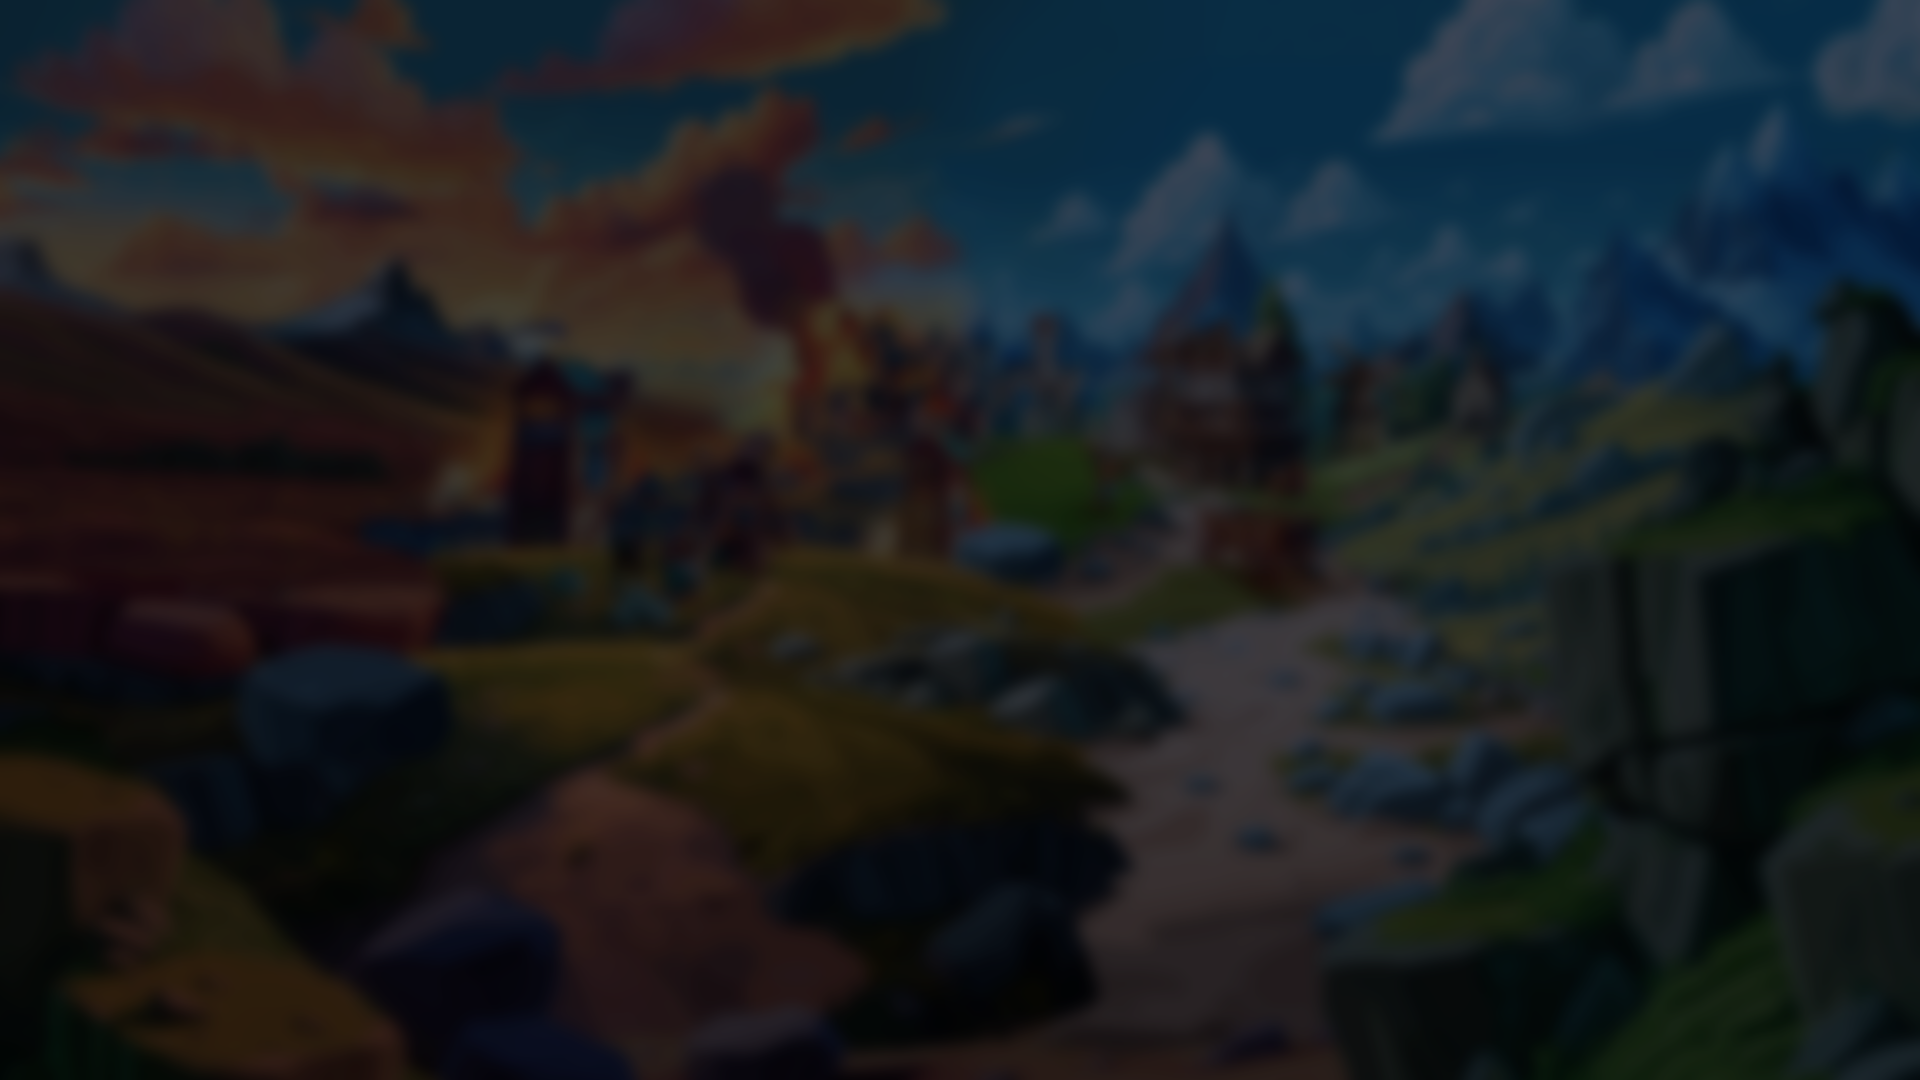
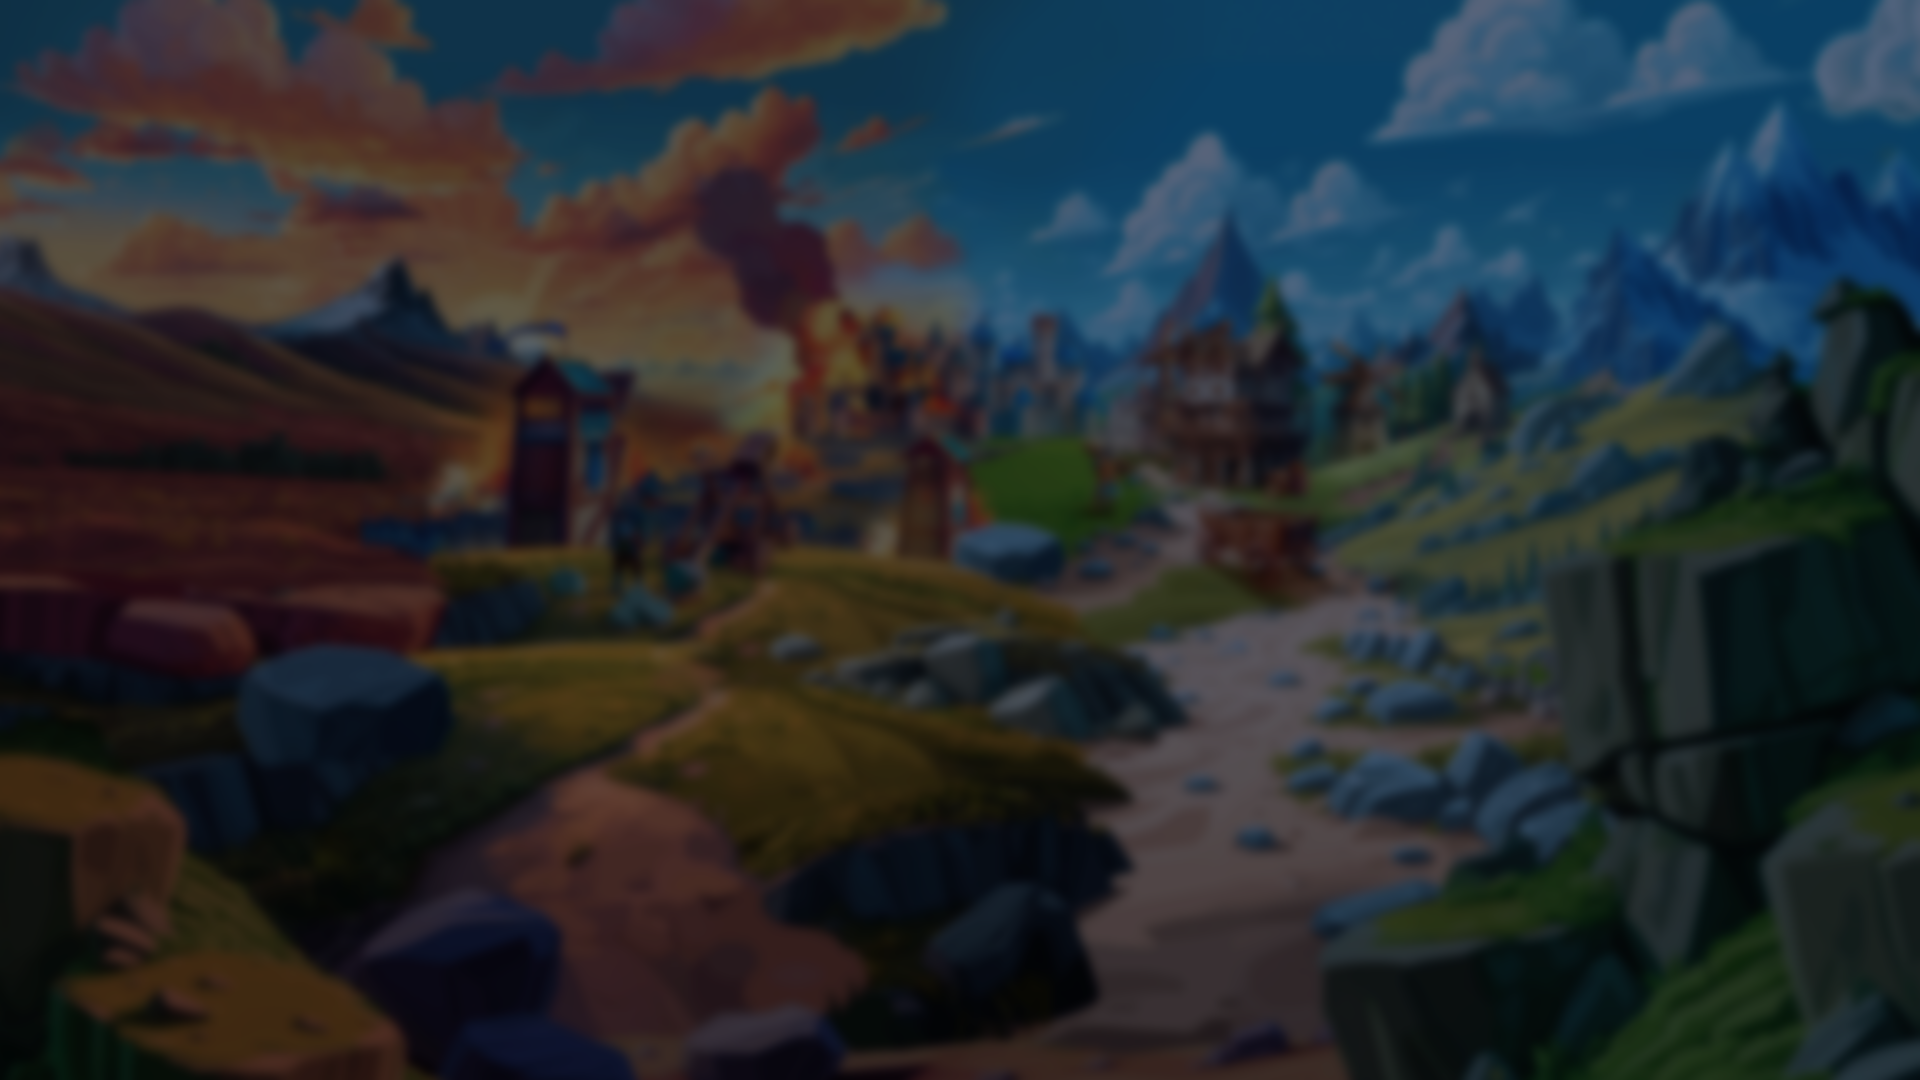
New design changes

diff --git a/styles.css b/styles.css
@@ -26,6 +26,9 @@ textarea {
     body {
         margin: 0 !important;
         background-attachment: scroll;
+        height: auto;
+        min-height: 100vh;
+        overflow: auto;
     }
 }
 
@@ -256,7 +259,9 @@ textarea {
 }
 
 .container {
-    background-color: rgba(32, 23, 17, 0.22);
+    background-color: rgba(32, 23, 17, 0.55);
+    backdrop-filter: blur(8px);
+    -webkit-backdrop-filter: blur(8px);
     display: flex;
     flex-direction: column;
     height: 100vh;
@@ -278,14 +283,13 @@ textarea {
     display: flex;
     flex-direction: column;
     overflow-x: hidden;
-    overflow-y: scroll;
+    overflow-y: auto;
     overscroll-behavior: contain;
-    scrollbar-gutter: stable;
 }
 
 .gf-modal-open .main-scroll {
     pointer-events: none;
-    overflow-y: scroll;
+    overflow-y: auto;
 }
 
 p {
@@ -852,7 +856,16 @@ html {
 
     .container {
         padding-top: 6px;
-        padding-bottom: calc(72px + env(safe-area-inset-bottom, 0px));
+        padding-bottom: calc(96px + env(safe-area-inset-bottom, 0px));
+        height: auto;
+        min-height: 100vh;
+        overflow-y: auto;
+    }
+
+    .main-scroll {
+        flex: 0 0 auto;
+        min-height: auto;
+        overflow: visible;
     }
 
     .main-nav-left {